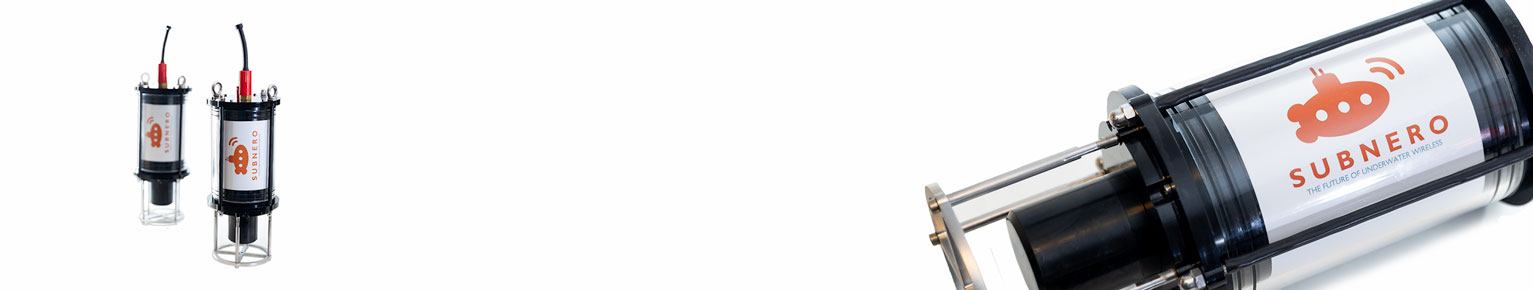
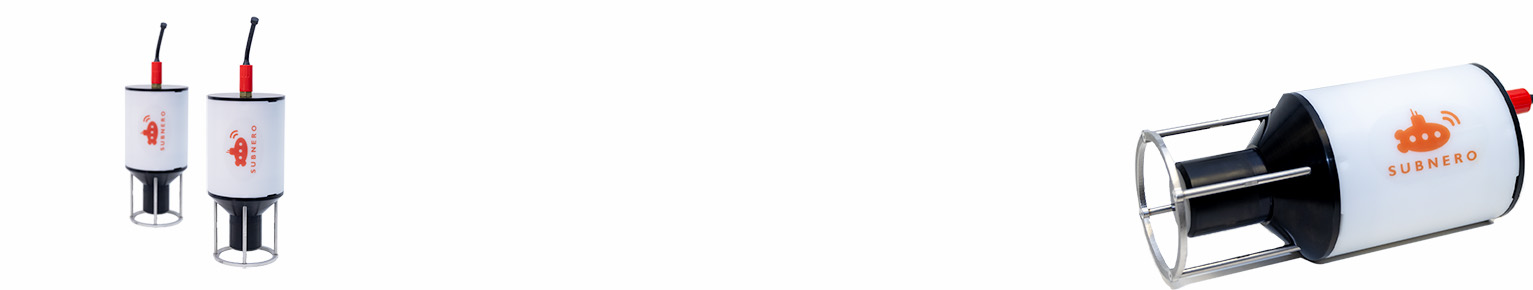
Updated RE modem imagesd

Changed region(s): [[0.5825, 0.0, 1.0, 1.0], [0.0613, 0.0621, 0.184, 0.931]]

diff --git a/products/wnc-m25mrs4.md b/products/wnc-m25mrs4.md
@@ -2,7 +2,7 @@
 layout: page
 title: WNC-M25MRS4
 banner : images/banner-research.jpg
-thumbnail : images/thumbnail-wnc-m25mrs3.png
+thumbnail : images/thumbnail-wnc-m25mrs4.png
 excerpt: Subnero research edition of underwater acoustic modems are geared towards academic researchers and underwater technology enthusiasts.
 categories: modem
 section_id: products
@@ -28,7 +28,7 @@ Our research edition modems are designed to bridge the gap between developing ap
 <div class='full' style='background: #f5f5f5'>
 
   <div class ='media product' >
-    <img class = "align-self-start mr-3" alt="" src="{{site.baseurl}}/images/boxart-wnc-m25mrs3.jpg"/>
+    <img class = "align-self-start mr-3" alt="" src="{{site.baseurl}}/images/boxart-wnc-m25mrs4.png"/>
     <div class='media-body product product-content'>
     <h3 style="text-transform: none;" id="surface">Standalone Configuration</h3>
         <p>A modem in the standalone configuration (SC) operates on external power source such as a battery (for underwater deployments) or a power supply (for deployments from the water surface).</p>

diff --git a/products/modem.md b/products/modem.md
@@ -2,7 +2,7 @@
 layout: default
 title: Subnero Underwater Modems
 banner : images/banner-modem.jpg
-thumbnail: images/boxart-modem.jpg
+thumbnail: images/boxart-modem.png
 categories: underwatermodem
 section_id: products
 excerpt: Subnero's software-defined underwater acoustic modems for underwater wireless communication and networking.

diff --git a/_posts/2021-05-12-Subnero-Multi-channel-Modems.md b/_posts/2021-05-12-Subnero-Multi-channel-Modems.md
@@ -4,7 +4,7 @@ title: Introducing Subnero Multi-channel Modems
 banner : images/banner-multichannel.jpg
 date:  2021-05-12
 categories: wnc news
-thumbnail: images/thumbnail-wnc-multichannel.jpg
+thumbnail: images/thumbnail-wnc-multichannel.png
 ---
 
 <div class="flex-video video">
